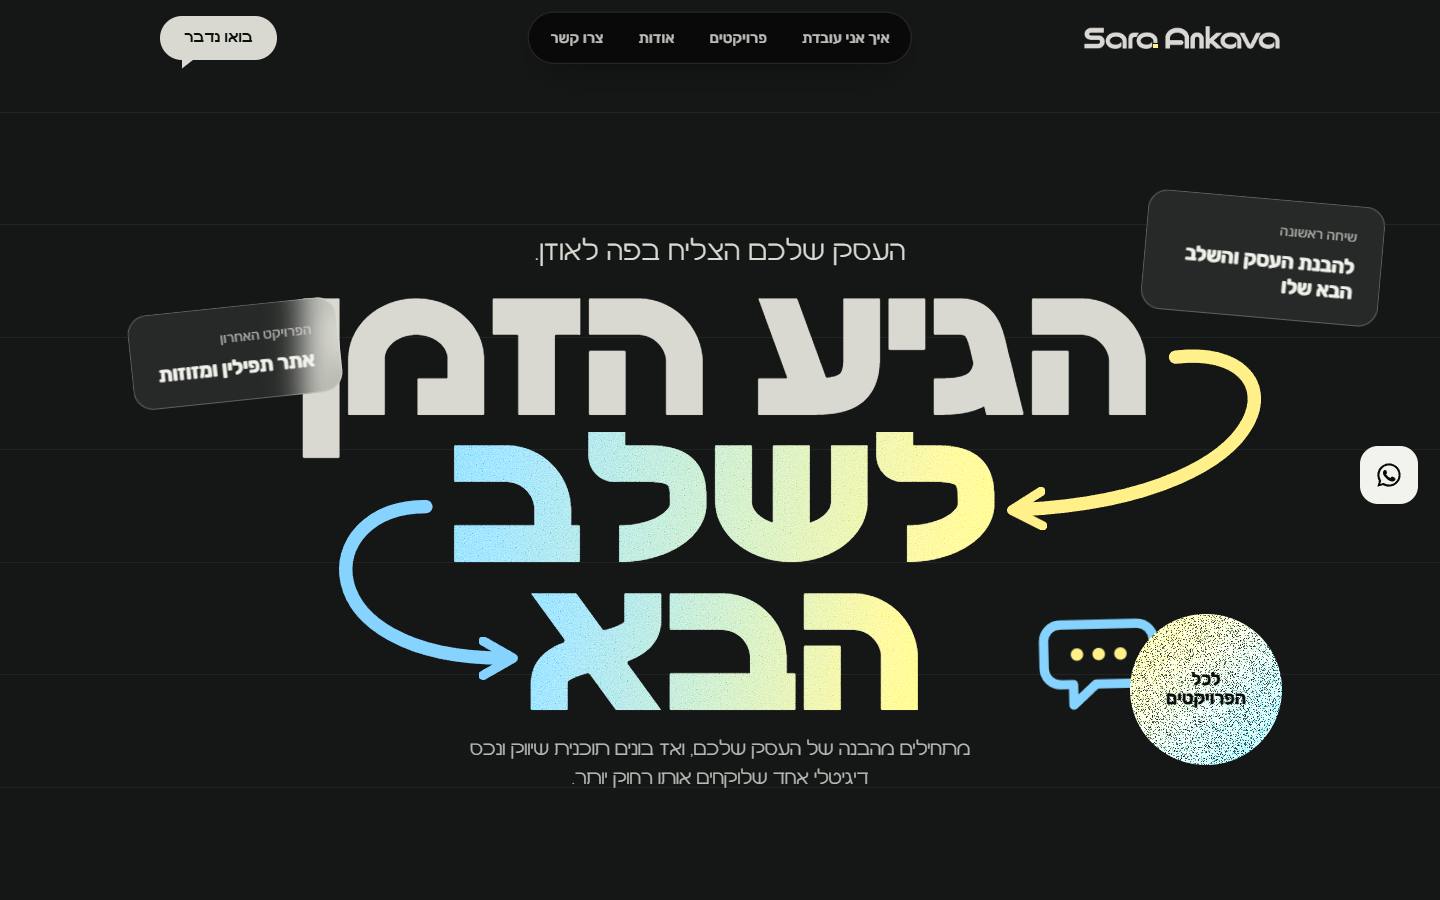
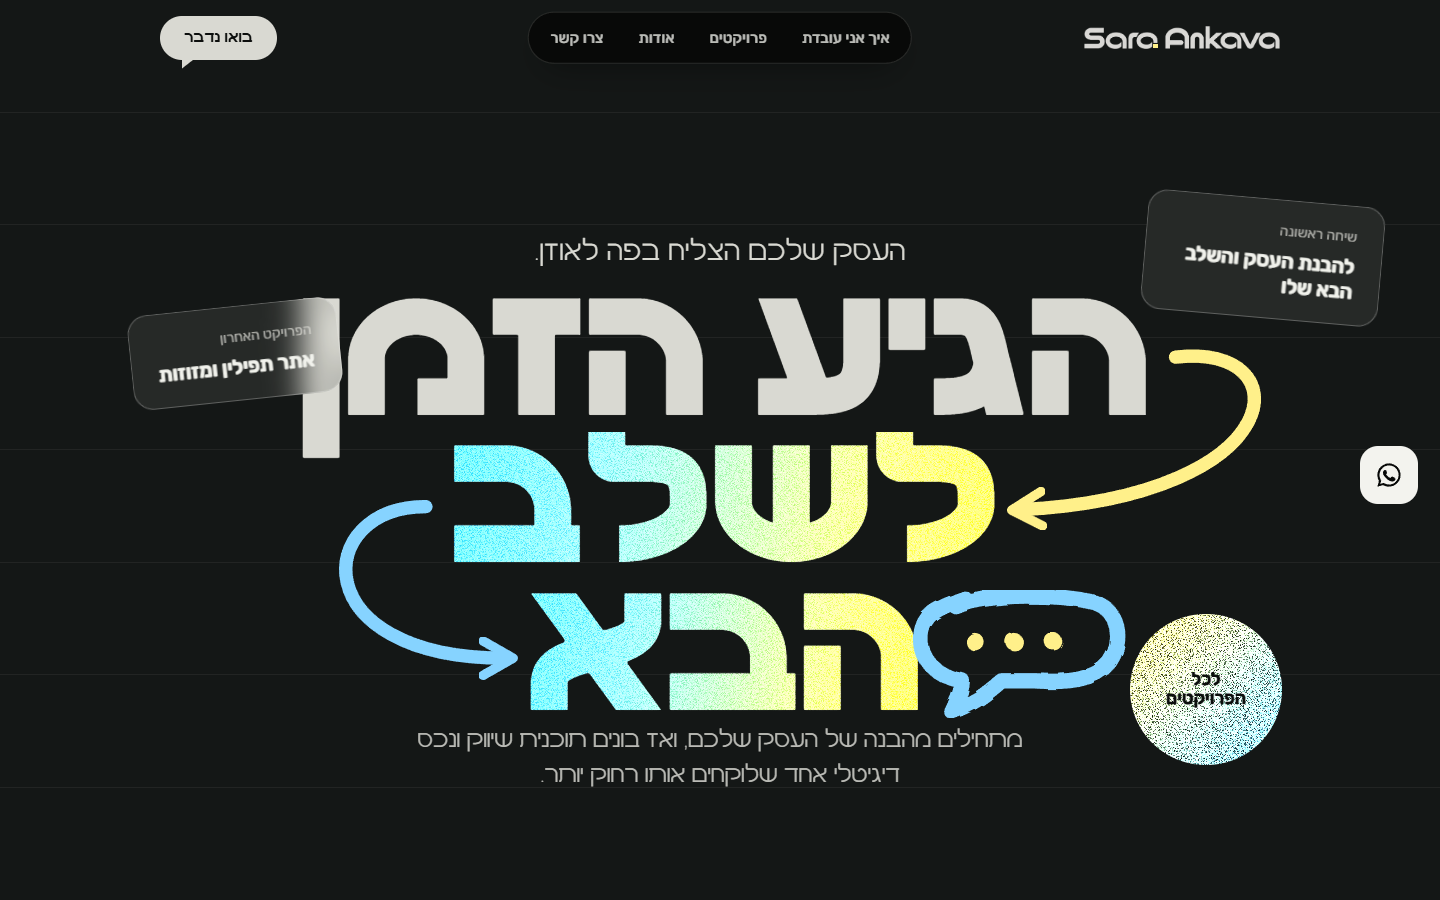
v6 hero: static stronger grain, marker-drawn speech bubble, larger paragraph

Changed region(s): [[0.2812, 0.6533, 0.8125, 0.8711], [0.3125, 0.4667, 0.6875, 0.6222]]

diff --git a/versions/v6/index.html b/versions/v6/index.html
@@ -18,7 +18,7 @@
 <link rel="preload" href="assets/fonts/SaraAnkava-Bold-v1.2.woff2" as="font" type="font/woff2" crossorigin>
 <link rel="stylesheet" href="assets/css/style.css?v=6">
 <link rel="stylesheet" href="assets/css/v4.css?v=4">
-<link rel="stylesheet" href="assets/css/v6.css?v=44">
+<link rel="stylesheet" href="assets/css/v6.css?v=47">
 <meta name="robots" content="noindex">
 <script>document.documentElement.classList.add('js');setTimeout(function(){if(!window.__saReady)document.documentElement.classList.remove('js')},3000)</script>
 <script type="application/ld+json">
@@ -59,7 +59,7 @@
       <span class="hb__l" style="--i:0">הגיע הזמן</span>
       <span class="hb__l gr-text" style="--i:1">לשלב</span>
       <span class="hb__l gr-text" style="--i:2">הבא</span>
-    <svg class="hb__arrows" viewBox="0 0 845 430" preserveAspectRatio="none" aria-hidden="true"><defs><marker id="mh1" viewBox="0 0 10 10" refX="6" refY="5" markerWidth="3.2" markerHeight="3.2" orient="auto-start-reverse"><path d="M1 1L8 5L1 9" fill="none" stroke="context-stroke" stroke-width="2.2" stroke-linecap="round" stroke-linejoin="round"/></marker></defs><path class="ar ar1" marker-end="url(#mh1)" d="M862 70C985 55 975 205 712 218"/><path class="ar ar2" marker-end="url(#mh1)" d="M138 215C28 215 20 362 214 362"/><g transform="translate(100 -40)"><g class="hb__doodle"><path d="M652 372h74a16 16 0 0 1 16 16v26a16 16 0 0 1-16 16h-40l-22 20v-20h-12a16 16 0 0 1-16-16v-26a16 16 0 0 1 16-16z" fill="none" stroke="#86D3FF" stroke-width="9" stroke-linejoin="round" stroke-linecap="round"/><circle cx="668" cy="401" r="6" fill="#FFF08A"/><circle cx="689" cy="401" r="6" fill="#FFF08A"/><circle cx="710" cy="401" r="6" fill="#FFF08A"/></g></g></svg>
+    <svg class="hb__arrows" viewBox="0 0 845 430" preserveAspectRatio="none" aria-hidden="true"><defs><filter id="mk" x="-5%" y="-5%" width="110%" height="110%"><feTurbulence type="fractalNoise" baseFrequency=".035" numOctaves="2" seed="4"/><feDisplacementMap in="SourceGraphic" scale="5"/></filter><marker id="mh1" viewBox="0 0 10 10" refX="6" refY="5" markerWidth="3.2" markerHeight="3.2" orient="auto-start-reverse"><path d="M1 1L8 5L1 9" fill="none" stroke="context-stroke" stroke-width="2.2" stroke-linecap="round" stroke-linejoin="round"/></marker></defs><path class="ar ar1" marker-end="url(#mh1)" d="M862 70C985 55 975 205 712 218"/><path class="ar ar2" marker-end="url(#mh1)" d="M138 215C28 215 20 362 214 362"/><g class="hb__marker"><path class="ar ar2" d="M672 322C706 308 772 310 806 318C830 326 834 356 820 376C806 394 778 396 748 394L716 394C702 406 690 416 668 424C674 412 678 402 678 394C654 390 636 374 638 350C640 330 652 324 680 314"/><path class="hb__dot" d="M690 356h.1M728 356h.1M766 356h.1"/></g></svg>
     </h1>
     <a class="hb__badge" href="projects.html" aria-label="לכל הפרויקטים"><span class="gr-sq"></span><b>לכל<br>הפרויקטים</b></a>
     <p class="hb__p">מתחילים מהבנה של העסק שלכם, ואז בונים תוכנית שיווק ונכס דיגיטלי אחד שלוקחים אותו רחוק יותר.</p>

diff --git a/versions/v6/assets/css/v6.css b/versions/v6/assets/css/v6.css
@@ -274,3 +274,13 @@ body::before,body::after{display:none!important}
 @keyframes hb-flow{from{background-position:0 0,0 0}to{background-position:0 0,-300% 0}}
 @media (prefers-reduced-motion:reduce){.hb__title .gr-text,.hb__doodle{animation:none}}
 .hb__doodle{translate:90px -34px}
+
+/* ===== עדכון: גרעון חזק יותר בלי תזוזה, בועת טוש, פסקה גדולה יותר ===== */
+.hb__title .gr-text{background-image:var(--v6-n),linear-gradient(100deg,var(--v6-mint) 0%,var(--v6-sun) 100%);background-size:200px,auto;background-blend-mode:hard-light,normal;filter:contrast(1.25) saturate(1.15);animation:hb-up 1s cubic-bezier(.2,.8,.2,1) both;animation-delay:calc(.15s + var(--i) * .12s)}
+.hb__marker{filter:url(#mk)}
+.hb__marker .ar{stroke-width:15;stroke:#86D3FF}
+.hb__dot{fill:none;stroke:#FFF08A;stroke-width:17;stroke-linecap:round}
+.hb__p{font-size:23px;width:min(640px,64vw)}
+.hb__title .gr-text{background-image:var(--v6-hard),linear-gradient(100deg,var(--v6-mint) 0%,var(--v6-sun) 100%);background-size:220px,auto;background-blend-mode:soft-light,normal;filter:contrast(1.35) saturate(1.45)}
+.hb__marker{transform:translate(-70px,-6px)}
+.hb__marker{transform:translate(-22px,-10px)}
